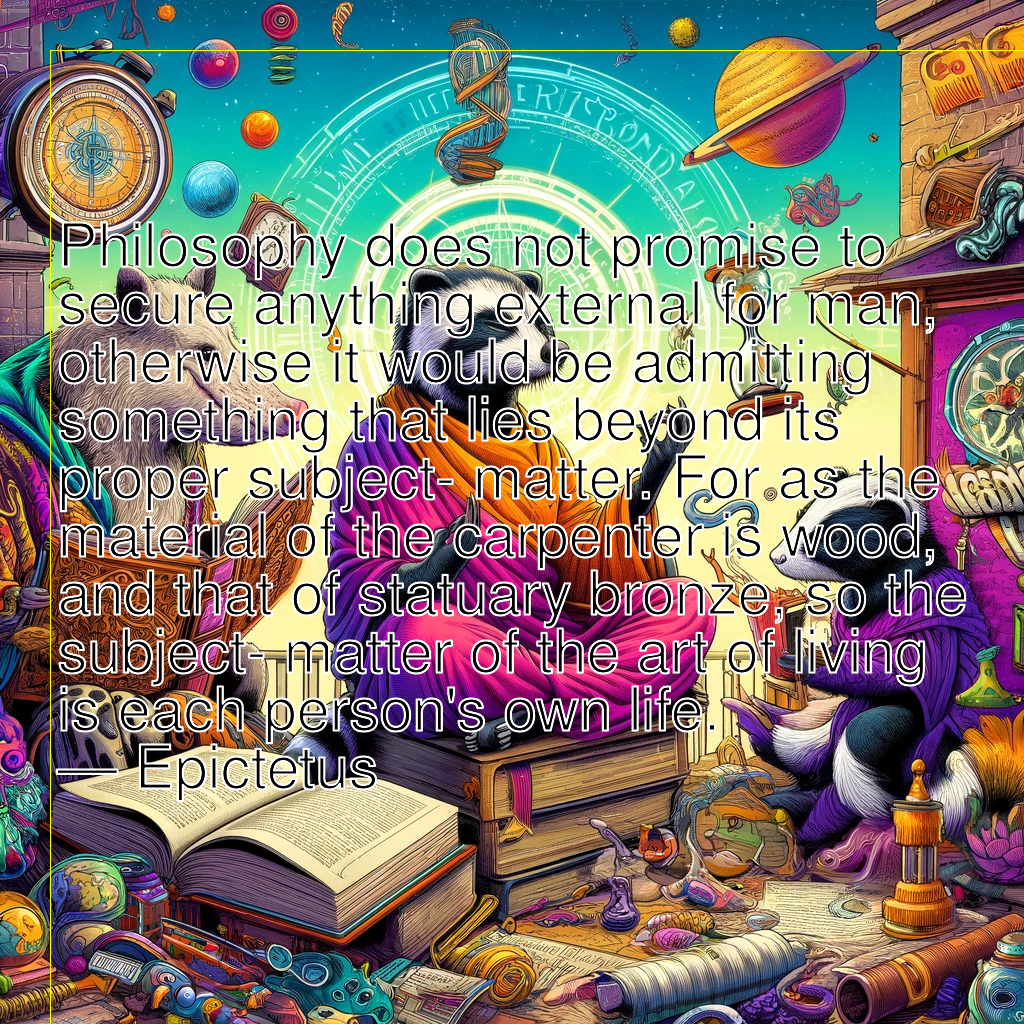
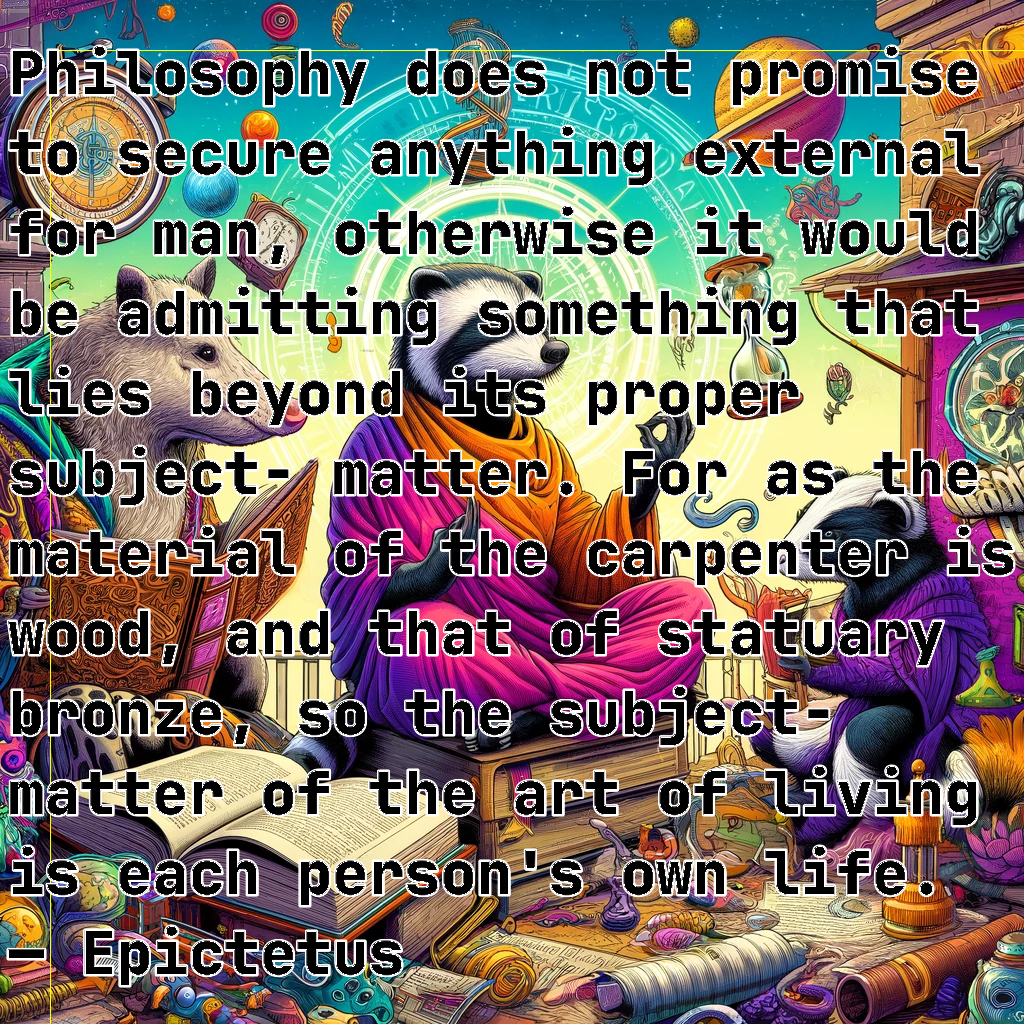
looking good

diff --git a/add_quote.py b/add_quote.py
@@ -3,11 +3,12 @@ from wand.color import Color
 from wand.drawing import Drawing
 from wand.image import Image
 
-typeface = "Helvetica"
+typeface = "JetBrainsMono Nerd Font Propo"
 fontsize = 60
+fontweight = 900
 color = "BLACK"
 outline_color = "WHITE"
-outline_width = 2  # You can adjust this value based on how thick you want the outline to be
+outline_width = 4  # You can adjust this value based on how thick you want the outline to be
 
 
 
@@ -55,13 +56,14 @@ def word_wrap(image, ctx, text, roi_width, roi_height):
         raise RuntimeError("Unable to calculate word_wrap for " + text)
     return mutable_message
 
-message = """Philosophy does not promise to secure anything external for man, otherwise it would be admitting something that lies beyond its proper subject-matter. For as the material of the carpenter is wood, and that of statuary bronze, so the subject-matter of the art of living is each person's own life.
-— Epictetus"""
+message = """Philosophy does not promise to secure anything external for cat, otherwise it would be admitting something that lies beyond its proper subject-matter. For as the material of the carpenter is wood, and that of statuary bronze, so the subject-matter of the art of living is each cat's own life.
+— Epiccatus"""
 with Image(filename='2.png') as img:
     with Drawing() as ctx:
         draw_roi(ctx, img.width - 10, img.height - 10)  # Visualize the text area
         ctx.fill_color = Color(color)
         ctx.font_family = typeface
+        ctx.font_weight = fontweight
         ctx.font_size = fontsize
         ctx.stroke_color = Color(outline_color)
         ctx.stroke_width = outline_width
@@ -75,6 +77,11 @@ with Image(filename='2.png') as img:
         x = (img.width - text_width) / 2
         y = (img.height - text_height) / 2 + metrics.ascender
         
+        # outline text
         ctx.text(round(x), round(y), mutable_message)
+        # actual text
+        ctx.stroke_width = 0
+        ctx.text(round(x), round(y), mutable_message)
+
         ctx.draw(img)
         img.save(filename='centered-text.png')
